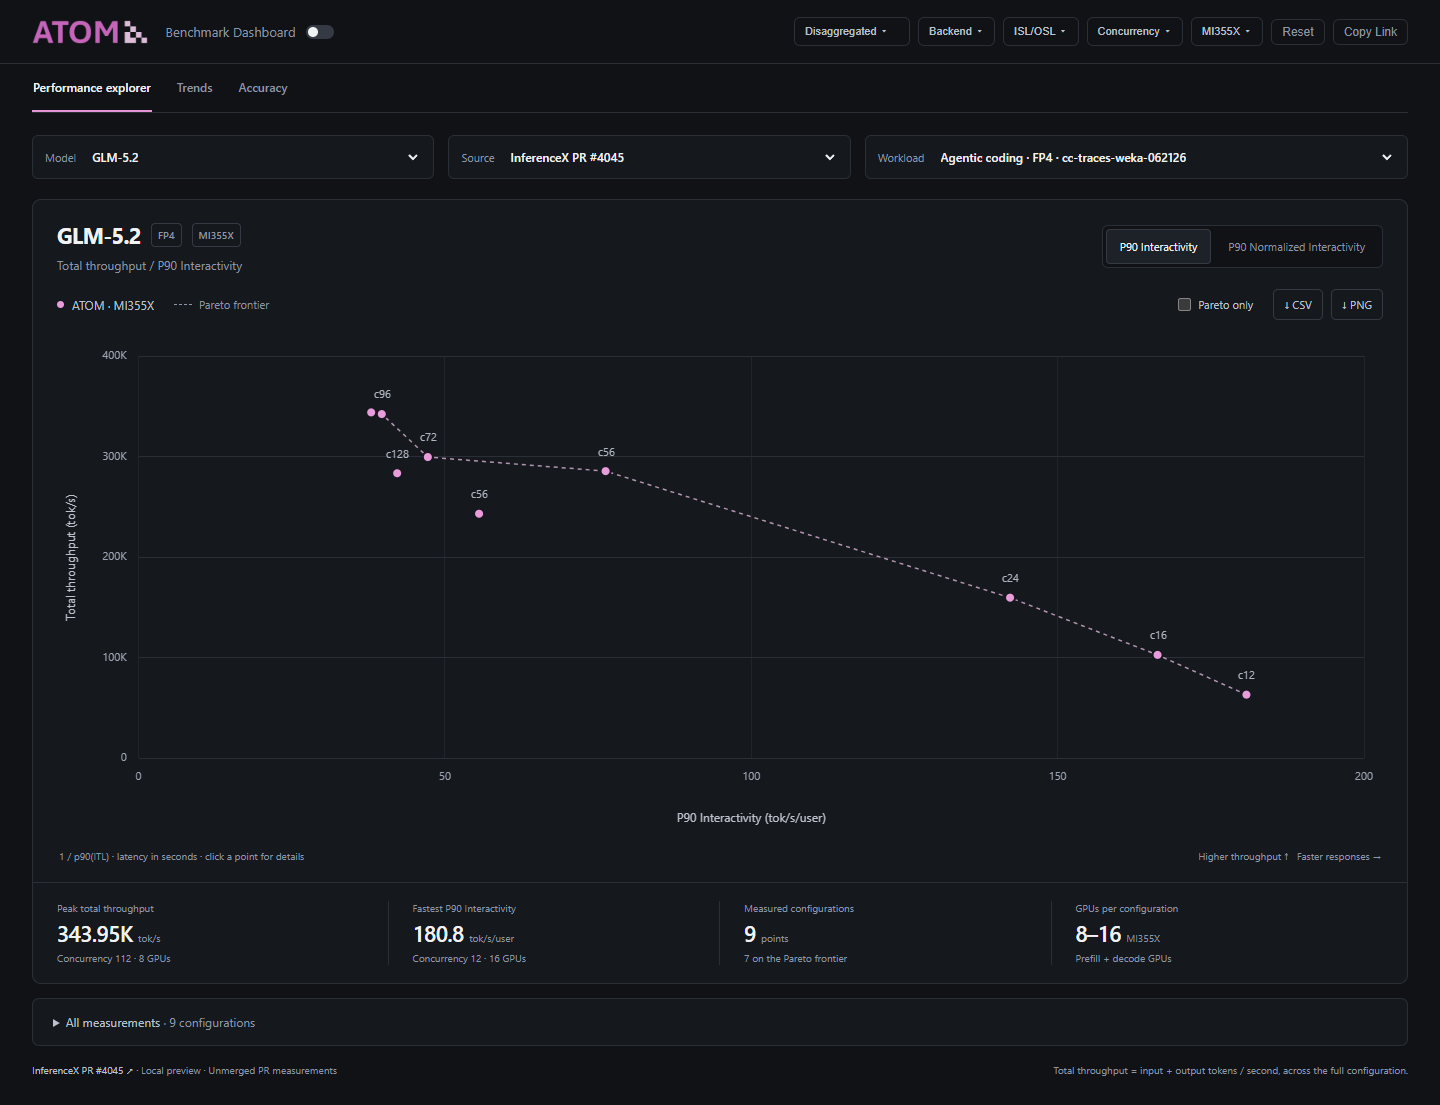
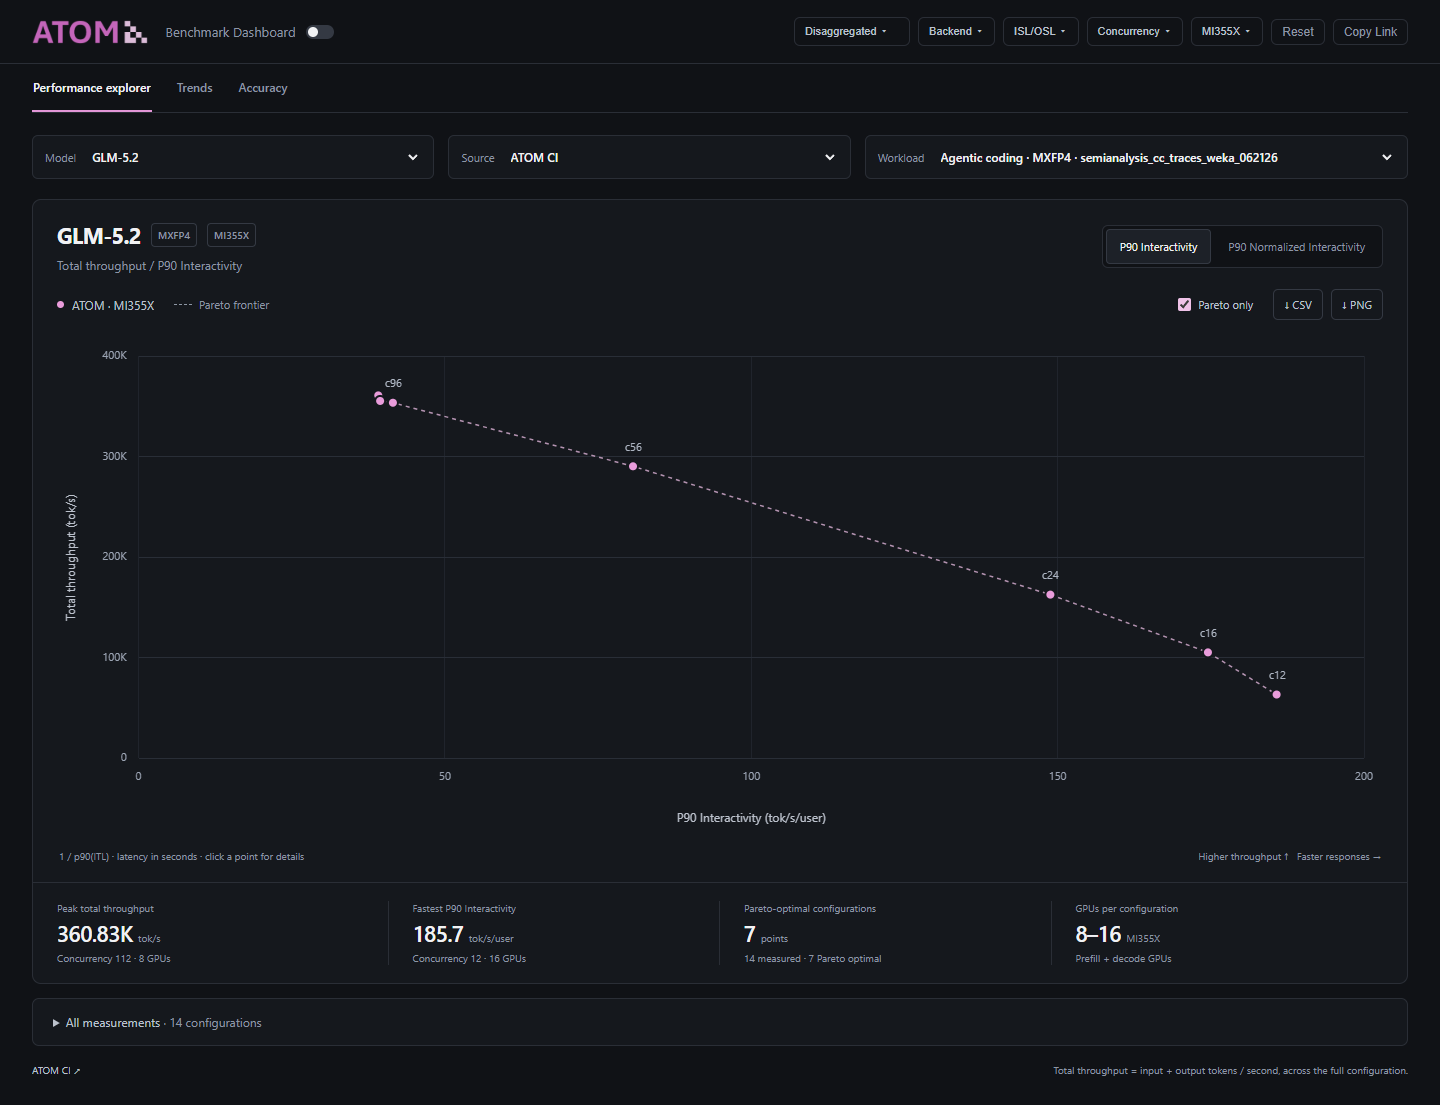
feat(dashboard): default to native CI Pareto results

diff --git a/.github/dashboard/index.html b/.github/dashboard/index.html
@@ -1085,6 +1085,7 @@ const localRows = (localBenchmark.points || []).map((point, idx) => atomeshPoint
   ...point, source_label: point.source_label || 'Local measurements',
 }, {}, `local-${idx}`));
 const atomeshSummaryRows = [...mergeAtomeshTopologyRows(atomeshRawRows), ...localRows];
+const explorerBenchmarkRows = buildExplorerBenchmarkRows(rawData);
 
 // Normalize legacy model names using HF-path->display mapping from models_map.js
 const _displayMap = window.MODELS_DISPLAY_MAP || {};
@@ -1463,10 +1464,10 @@ const state = {
   atomeshTrendModel: '',
   atomeshIntvtyMetric: 'p90_itl',
   explorerModel: localRows[0]?.model || '',
-  explorerSource: localRows[0]?.sourceLabel || '',
+  explorerSource: 'ATOM CI',
   explorerWorkload: '',
   explorerHidden: new Set(),
-  explorerFrontierOnly: false,
+  explorerFrontierOnly: true,
   dataView: 'table',
   dataSort: { column: 'date', direction: 'desc' },
 };
@@ -1886,7 +1887,7 @@ function renderFilters() {
     state.filters.conc = [...allConc];
     state.filters.hardware = [defaultHardware];
     state.explorerHidden.clear();
-    state.explorerFrontierOnly = false;
+    state.explorerFrontierOnly = true;
     renderFilters();
     updateHeaderGpuMeta();
     renderActiveTab();
@@ -3470,7 +3471,7 @@ function syncToHash() {
   for (const key of ['explorerModel', 'explorerSource', 'explorerWorkload']) {
     if (state[key]) parts.push(key + '=' + encodeURIComponent(state[key]));
   }
-  if (state.explorerFrontierOnly) parts.push('frontier=1');
+  if (!state.explorerFrontierOnly) parts.push('frontier=0');
   if (state.explorerHidden.size) parts.push('hiddenSeries=' + encodeURIComponent(JSON.stringify([...state.explorerHidden])));
   hashUpdateFromCode = true;
   window.location.hash = parts.join('&');
@@ -3478,16 +3479,16 @@ function syncToHash() {
 
 function readFromHash() {
   state.explorerModel = localRows[0] ? explorerModelName(localRows[0].model) : '';
-  state.explorerSource = localRows[0]?.sourceLabel || '';
+  state.explorerSource = 'ATOM CI';
   state.explorerWorkload = '';
-  state.explorerFrontierOnly = false;
+  state.explorerFrontierOnly = true;
   state.explorerHidden = new Set();
   const hash = window.location.hash.slice(1);
   if (!hash) return;
   for (const [k, v] of new URLSearchParams(hash)) {
     if (!v) continue;
     if (['explorerModel', 'explorerSource', 'explorerWorkload'].includes(k)) state[k] = v;
-    if (k === 'frontier') state.explorerFrontierOnly = v === '1';
+    if (k === 'frontier' && ['0', '1'].includes(v)) state.explorerFrontierOnly = v === '1';
     if (k === 'hiddenSeries') {
       try {
         const hidden = JSON.parse(v);
@@ -4054,6 +4055,30 @@ function renderAtomeshKPICards() {
   }
 }
 
+function buildExplorerBenchmarkRows(data) {
+  // Read the exact perf_point payload produced by process_result.py and stored
+  // by github-action-benchmark. Keep the latest publication of each recipe /
+  // concurrency; do not choose winners by throughput before calculating Pareto.
+  const runs = Object.values(data?.entries || {}).flat().sort((a, b) => (b.date || 0) - (a.date || 0));
+  const latest = new Map();
+  let index = 0;
+  for (const run of runs) {
+    for (const bench of run.benches || []) {
+      const parsed = parseAtomeshPerfPointExtra(bench.extra);
+      if (parsed?.point?.source !== 'ATOMesh') continue;
+      const row = atomeshPointRow(parsed.point, parsed.meta, index++);
+      const model = atomeshMergedModelName(row);
+      const key = JSON.stringify([row.sourceLabel, row.hardware, model,
+        row.configLabel || row.topology, explorerWorkloadKey(row), row.concurrency]);
+      if (latest.has(key)) continue;
+      latest.set(key, { ...row, model,
+        sourceModel: row.model, sourceTopology: row.topology,
+        commit: run.commit, date: run.date || row.date || 0 });
+    }
+  }
+  return [...latest.values()];
+}
+
 // P90 axes only accept measurements with a known definition. In particular,
 // legacy 1000 / median(TPOT) values must never appear on the normalized P90 axis.
 function explorerMetricValue(row, metric) {
@@ -4091,7 +4116,7 @@ function renderAtomeshPerformanceTab() {
   const metric = atomeshInteractivityMetric();
   const metricLabel = metric.key === 'p90_itl' ? 'P90 Interactivity' : 'P90 Normalized Interactivity';
   // The model dropdown owns model selection; the other global filters still apply.
-  const available = atomeshSummaryRows.filter(row => state.filters.hardware.includes(row.hardware || 'unknown')
+  const available = [...explorerBenchmarkRows, ...localRows].filter(row => state.filters.hardware.includes(row.hardware || 'unknown')
     && state.filters.backends.includes(row.backend) && atomeshMatchesIslOslFilter(row)
     && state.filters.conc.includes(row.concurrency));
   const models = [...new Set(available.map(row => explorerModelName(row.model)))].sort(_lc);
@@ -4138,7 +4163,9 @@ function renderAtomeshPerformanceTab() {
   const gpuCounts = points.map(p => p.row.totalGpu).filter(Number.isFinite);
   const gpuRange = gpuCounts.length ? `${Math.min(...gpuCounts)}${Math.min(...gpuCounts) === Math.max(...gpuCounts) ? '' : '–' + Math.max(...gpuCounts)}` : '—';
   const missing = rows.filter(row => explorerMetricValue(row, metric) === null || !Number.isFinite(row.totalTput) || row.totalTput <= 0).length;
-  const sourceUrl = safeHref(rows[0]?.sourceUrl || rows[0]?.runUrl);
+  const sourceUrl = state.explorerSource === 'ATOM CI'
+    ? 'https://github.com/ROCm/ATOM/actions/workflows/atomesh-benchmark.yaml'
+    : safeHref(rows[0]?.sourceUrl || rows[0]?.runUrl);
   const optionHTML = (options, selected, label = x => x) => options.map(option => `<option value="${escHTML(option).replace(/"/g, '&quot;')}" ${option === selected ? 'selected' : ''}>${escHTML(label(option))}</option>`).join('');
   container.innerHTML = `
     <div class="ex-controls">
@@ -4166,7 +4193,7 @@ function renderAtomeshPerformanceTab() {
       <div class="ex-stats">
         <div class="ex-stat"><div class="ex-stat-label">Peak total throughput</div><div class="ex-stat-value">${explorerCompact(peak?.y, 2)} <small>tok/s</small></div><div class="ex-stat-note">${peak ? `Concurrency ${peak.row.concurrency} · ${peak.row.totalGpu ?? '—'} GPUs` : 'No measured points'}</div></div>
         <div class="ex-stat"><div class="ex-stat-label">Fastest ${metricLabel}</div><div class="ex-stat-value">${fastest ? fmtNum(fastest.x, 1) : '—'} <small>tok/s/user</small></div><div class="ex-stat-note">${fastest ? `Concurrency ${fastest.row.concurrency} · ${fastest.row.totalGpu ?? '—'} GPUs` : 'No P90 measurements'}</div></div>
-        <div class="ex-stat"><div class="ex-stat-label">Measured configurations</div><div class="ex-stat-value">${points.length} <small>points</small></div><div class="ex-stat-note">${frontierRows.size} on the Pareto frontier</div></div>
+        <div class="ex-stat"><div class="ex-stat-label">${state.explorerFrontierOnly ? 'Pareto-optimal configurations' : 'Visible configurations'}</div><div class="ex-stat-value">${visible.length} <small>points</small></div><div class="ex-stat-note">${points.length} measured · ${frontierRows.size} Pareto optimal</div></div>
         <div class="ex-stat"><div class="ex-stat-label">GPUs per configuration</div><div class="ex-stat-value">${gpuRange} <small>${escHTML(fmtHardware(selectedHardware()))}</small></div><div class="ex-stat-note">Prefill + decode GPUs</div></div>
       </div>
       <aside class="ex-detail" id="ex-detail" aria-label="Selected configuration" aria-live="polite" hidden></aside>

diff --git a/tests/test_dashboard_explorer.py b/tests/test_dashboard_explorer.py
@@ -26,7 +26,7 @@ def javascript_function(name):
 class ExplorerMetricsTests(unittest.TestCase):
     def run_js(self, script):
         result = subprocess.run(
-            [NODE, "-e", script], capture_output=True, text=True, check=False
+            [NODE], input=script, capture_output=True, text=True, check=False
         )
         self.assertEqual(result.returncode, 0, result.stderr)
 
@@ -77,6 +77,48 @@ const before = JSON.stringify(points);
 assert.deepEqual(atomeshParetoFrontier(points), [{x: 1, y: 7}, {x: 3, y: 4}, {x: 5, y: 2}]);
 assert.equal(JSON.stringify(points), before);
 assert.deepEqual(atomeshParetoFrontier([]), []);
+"""
+        )
+
+    def test_ci_points_preserve_recipes_and_use_latest_publication(self):
+        functions = [
+            "parseAtomeshNumber",
+            "atomeshInteractivityMethod",
+            "atomeshHardwareKey",
+            "parseAtomeshPerfPointExtra",
+            "atomeshPointNumber",
+            "atomeshPointRow",
+            "atomeshMergedModelName",
+            "isAgenticTraceRow",
+            "explorerWorkloadKey",
+            "buildExplorerBenchmarkRows",
+            "atomeshParetoFrontier",
+        ]
+        self.run_js(
+            "const assert = require('node:assert/strict');\n"
+            "const ATOMESH_DATA = {backend: 'ATOMesh', hardware: 'MI355X'};\n"
+            + "\n".join(javascript_function(name) for name in functions)
+            + """
+const base = {source: 'ATOMesh', model: 'GLM-5.2', hardware: 'mi355x',
+  precision: 'fp4', benchmark_kind: 'aiperf_agentic', public_dataset: 'agentic-trace',
+  concurrency: 56, interactivity_method: 'p90_e2e_normalized', interactivity: 30};
+const bench = point => ({extra: 'Run: https://github.com/ROCm/ATOM/actions/runs/1 | perf_point=' + encodeURIComponent(JSON.stringify({...base, ...point}))});
+const older = {date: 100, benches: [bench({config_label: 'recipe-a', total_tput: 900, interactivity_p90_itl: 100})]};
+const newer = {date: 200, benches: [
+  bench({config_label: 'recipe-a', total_tput: 200, interactivity_p90_itl: 60}),
+  bench({config_label: 'recipe-b', total_tput: 100, interactivity_p90_itl: 90}),
+  bench({config_label: 'recipe-b', total_tput: 100, interactivity_p90_itl: 90}),
+  bench({config_label: 'recipe-a', precision: 'fp8', total_tput: 150, interactivity_p90_itl: 70}),
+  bench({config_label: 'recipe-a', public_dataset: 'other-trace', total_tput: 180, interactivity_p90_itl: 75}),
+]};
+const rows = buildExplorerBenchmarkRows({entries: {CI: [older, newer]}});
+assert.equal(rows.length, 4);
+const cohort = rows.filter(row => row.precision === 'fp4' && row.publicDataset === 'agentic-trace');
+assert.deepEqual(cohort.map(row => row.totalTput), [200, 100]);
+assert(cohort.every(row => row.date === 200 && row.sourceLabel === 'ATOM CI'));
+assert(cohort.every(row => row.runUrl === 'https://github.com/ROCm/ATOM/actions/runs/1'));
+// Same concurrency: the slower-throughput recipe is still a valid frontier point.
+assert.equal(atomeshParetoFrontier(cohort.map(row => ({x: row.interactivityP90Itl, y: row.totalTput}))).length, 2);
 """
         )
 
@@ -139,6 +181,22 @@ class ExplorerPreviewTests(unittest.TestCase):
             self.assertIn(r"model \u003c/script>", generated)
             self.assertEqual((output / "data.js").read_text(), "// cached public asset")
             self.assertNotIn('src="https://cdnjs.cloudflare.com', generated)
+
+    def test_default_preview_uses_ci_without_sample_injection(self):
+        spec = importlib.util.spec_from_file_location(
+            "preview", ROOT / "tools/preview_benchmark_dashboard.py"
+        )
+        module = importlib.util.module_from_spec(spec)
+        spec.loader.exec_module(module)
+        with tempfile.TemporaryDirectory() as directory:
+            output = Path(directory)
+            for name in module.ASSETS:
+                (output / name).write_text("// cached public asset", encoding="utf-8")
+            fragment = module.prepare(output, [])
+            generated = (output / "index.html").read_text(encoding="utf-8")
+            self.assertIn("explorerSource=ATOM+CI", fragment)
+            self.assertIn('<script src="data.js"></script>', generated)
+            self.assertNotIn("window.ATOM_LOCAL_BENCHMARK =", generated)
 
 
 if __name__ == "__main__":

diff --git a/tools/preview_benchmark_dashboard.py b/tools/preview_benchmark_dashboard.py
@@ -3,8 +3,7 @@
 """Preview the dashboard locally with published data and optional extra perf points.
 
 Example:
-    python tools/preview_benchmark_dashboard.py \
-        --points .github/dashboard/demo/inferencex-pr-4045.json
+    python tools/preview_benchmark_dashboard.py --refresh
 
 Only reads public dashboard assets. Extra points stay in the preview directory;
 this script does not publish data or require GitHub credentials.
@@ -59,14 +58,23 @@ def prepare(output, points_files, refresh=False):
     html = (ROOT / ".github/dashboard/index.html").read_text(encoding="utf-8")
     for name, url in ASSETS.items():
         html = html.replace(url, name)
-    # Escaping '<' keeps JSON text from terminating its script element.
-    extra = json.dumps({"points": points}, ensure_ascii=True).replace("<", "\\u003c")
-    script = "<script>window.ATOM_LOCAL_BENCHMARK = " + extra + ";</script>\n"
-    html = html.replace(
-        '<script src="data.js"></script>', script + '<script src="data.js"></script>'
-    )
+    if points:
+        # Escaping '<' keeps JSON text from terminating its script element.
+        extra = json.dumps({"points": points}, ensure_ascii=True).replace(
+            "<", "\\u003c"
+        )
+        script = "<script>window.ATOM_LOCAL_BENCHMARK = " + extra + ";</script>\n"
+        html = html.replace(
+            '<script src="data.js"></script>',
+            script + '<script src="data.js"></script>',
+        )
     (output / "index.html").write_text(html, encoding="utf-8")
-    params = {"mode": "Disaggregated", "hardware": "mi355x", "intvty": "p90_itl"}
+    params = {
+        "mode": "Disaggregated",
+        "hardware": "mi355x",
+        "intvty": "p90_itl",
+        "explorerSource": "ATOM CI",
+    }
     if points:
         params.update(
             explorerModel=points[0]["model"],

diff --git a/.github/dashboard/demo/README.md b/.github/dashboard/demo/README.md
@@ -8,9 +8,11 @@ across the configuration**, in input + output tokens per second. Summary
 metrics sit below the plot. Clicking a point opens its configuration details.
 The legend shows the engine and hardware; topology is retained as point metadata.
 
+The default source is **ATOM CI**, with **Pareto only** enabled. Switching the
+P90 axis recomputes which points are optimal.
+
 ```sh
-python tools/preview_benchmark_dashboard.py \
-  --points .github/dashboard/demo/inferencex-pr-4045.json
+python tools/preview_benchmark_dashboard.py --refresh
 ```
 
 Open the local URL printed by the script (port 8890 by default). It downloads
@@ -19,14 +21,34 @@ then serves a local copy of the dashboard. Assets are cached in the system's
 temporary directory; use `--refresh` to update them. The generated preview works
 offline after the initial download. Use `--no-serve` to only prepare the files.
 
-The model selector also exposes the available published ATOM CI results. Extra
-measurements are kept separate by source and workload. The preview never edits
-or uploads published benchmark data. The production dashboard does not load the
-sample automatically.
+The preview consumes the same `benchmark-dashboard/data.js` that the existing
+ATOMesh CI workflow publishes. No sample JSON is required. Each CI result passes
+through `.github/scripts/atomesh/process_result.py`, becomes a `perf_point` in
+`atomesh-benchmark-action.json`, and is appended to `data.js` by
+`github-action-benchmark`. The frontend reads both P90 metrics and total
+throughput directly from those points.
+
+The explorer retains the latest publication of each configuration (recipe,
+model, hardware, workload, precision and concurrency), then computes the
+frontier from the full candidate set. It does not collapse configurations by
+throughput before calculating the two-dimensional frontier. The point details
+link to the original ATOM CI run.
+
+Extra measurements can be added explicitly with `--points`; they stay separate
+by source and workload. The preview never edits or uploads published benchmark
+data. The production dashboard does not load the InferenceX sample automatically.
 
 ![GLM-5.2 performance explorer](preview.png)
 
 ## Sample provenance and metric definitions
+
+The original InferenceX sample remains available for comparisons and regression
+checks:
+
+```sh
+python tools/preview_benchmark_dashboard.py \
+  --points .github/dashboard/demo/inferencex-pr-4045.json
+```
 
 The sample contains all nine GLM-5.2 / MI355X configurations from
 [InferenceX PR #4045](https://github.com/SemiAnalysisAI/InferenceX/pull/4045),
@@ -49,7 +71,7 @@ or 16 GPUs, so the total-throughput comparison is not a per-GPU efficiency chart
 
 The dashed Pareto frontier maximizes both axes, is recomputed for visible
 series, and stays within one model variant, source, workload and precision.
-Dominated points remain visible unless “Pareto points only” is selected. Older
+Dominated points are hidden by default; uncheck “Pareto only” to inspect them. Older
 measurements without the selected P90 definition stay in the measurement table
 and are omitted from the chart; a median TPOT value is never substituted.
 
@@ -91,8 +113,9 @@ PNG exports capture the selected axis and visible series.
 python tests/test_dashboard_explorer.py
 ```
 
-The checks cover the P90 definition guard, Pareto dominance and ties, fixture
-units, JavaScript syntax, and safe local-preview embedding. Browser verification
+The checks cover the CI payload adapter and latest-configuration selection,
+P90 definition guard, Pareto dominance and ties, fixture units, JavaScript syntax,
+CI-only preview, and safe local-preview embedding. Browser verification
 also covers both axes against all nine source points, source/model switching,
 point selection, all-hidden and missing-metric states, URL reload/back/forward,
 CSV/PNG exports, both themes, narrow screens, and existing dashboard tabs.
